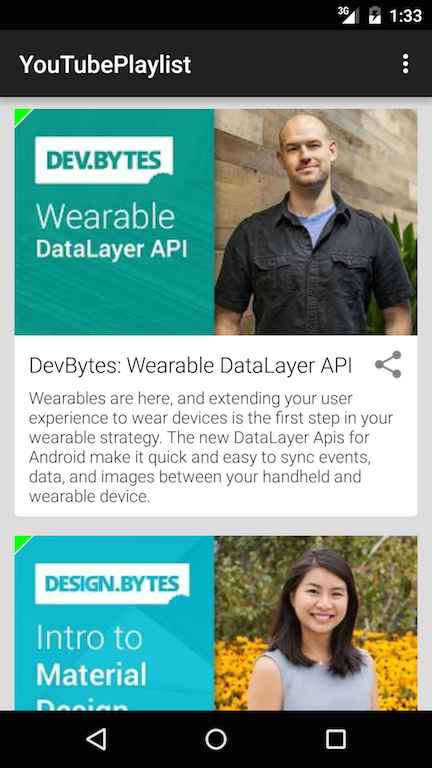
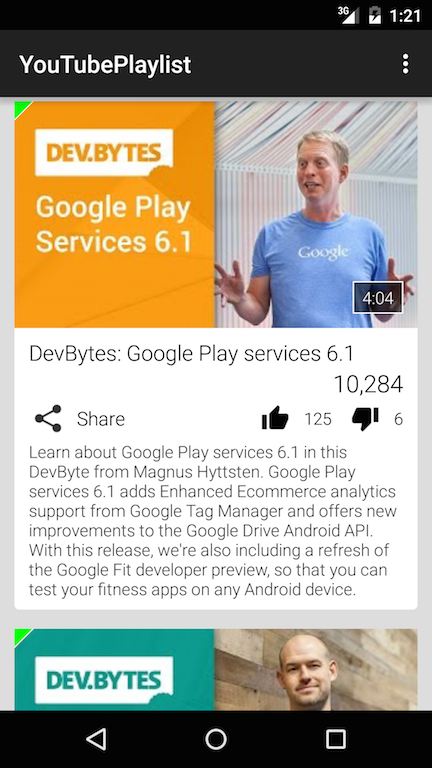
Video details (duration, view count, likes and dislikes)
- added a GetYouTubeVideoAsyncTask that fetches the video details
through the https://www.googleapis.com/youtube/v3/videos API.  See
https://developers.google.com/youtube/v3/docs/videos/list for details.
- added a Video data class that holds the video details.
- updated Playlist and PlayListItem to know about the Video class
- updated YouTubeFragmenthandlePlaylistResult(JSONObject) to kick off a
GetYouTubeVideoAsyncTask for each new Playlist page that has been
fetched.
- updated the youtube_video_list_item.xml to include new layout
elements for duration, view count, likes and dislikes.  Also changed
some font sizes and padding a bit
- updated the screenshot.png to show the new UI updates

diff --git a/YouTubePlaylist/src/main/java/com/akoscz/youtube/YouTubeFragment.java b/YouTubePlaylist/src/main/java/com/akoscz/youtube/YouTubeFragment.java
@@ -1,6 +1,5 @@
 package com.akoscz.youtube;
 
-import android.app.Activity;
 import android.content.Intent;
 import android.net.Uri;
 import android.os.Bundle;
@@ -16,10 +15,11 @@ import android.widget.TextView;
 import com.google.gson.Gson;
 import com.squareup.picasso.Picasso;
 
+import org.json.JSONArray;
 import org.json.JSONException;
 import org.json.JSONObject;
 
-import java.io.File;
+import java.text.DecimalFormat;
 
 /**
  * Licensed under the Apache License, Version 2.0 (the "License");
@@ -38,6 +38,7 @@ import java.io.File;
  * YouTubeFragment which contains a list view of YouTube video cards
  */
 public class YouTubeFragment extends Fragment {
+    private static final String TAG = "YouTubeFragment";
 
     private static final String YOUTUBE_PLAYLIST = "PLWz5rJ2EKKc_XOgcRukSoKKjewFJZrKV0";
     private static final String PLAYLIST_KEY = "PLAYLIST_KEY";
@@ -49,8 +50,7 @@ public class YouTubeFragment extends Fragment {
     }
 
     @Override
-    public View onCreateView(LayoutInflater inflater, ViewGroup container,
-                             Bundle savedInstanceState) {
+    public View onCreateView(LayoutInflater inflater, ViewGroup container, Bundle savedInstanceState) {
 
         Picasso.with(getActivity()).setIndicatorsEnabled(BuildConfig.DEBUG);
 
@@ -97,9 +97,35 @@ public class YouTubeFragment extends Fragment {
             if (mPlaylist == null) {
                 mPlaylist = new Playlist(result);
                 initListAdapter(mPlaylist);
-            } else {
-                mPlaylist.addPage(result);
             }
+
+            final Playlist.Page page = mPlaylist.addPage(result);
+
+            // fetch all the video details for the current page of Playlist Items
+            new GetYouTubeVideoAsyncTask() {
+
+                @Override
+                public void onPostExecute(JSONObject result) {
+                    if (result == null) {
+                        return;
+                    }
+
+                    try {
+                        JSONArray resultItems = result.getJSONArray("items");
+                        PlaylistItem playlistItem;
+                        for (int i = 0; i < page.items.size(); i++) {
+                            playlistItem = page.items.get(i);
+                            playlistItem.video = new Video(resultItems.getJSONObject(i));
+                        }
+
+                    } catch (JSONException e) {
+                        e.printStackTrace();
+                    }
+
+                    // make sure the UI gets updated
+                    mAdapter.notifyDataSetChanged();
+                }
+            }.execute(page);
 
             if (!mAdapter.setIsLoading(false)) {
                 mAdapter.notifyDataSetChanged();
@@ -110,6 +136,7 @@ public class YouTubeFragment extends Fragment {
     }
 
     protected class PlaylistAdapter extends BaseAdapter {
+        private final DecimalFormat formatter = new DecimalFormat("#,###,###");
         private final LayoutInflater mInflater;
         private Playlist mPlaylist;
         private boolean mIsLoading = false;
@@ -163,6 +190,11 @@ public class YouTubeFragment extends Fragment {
                 viewHolder.description = (TextView) convertView.findViewById(R.id.video_description);
                 viewHolder.thumbnail = (ImageView) convertView.findViewById(R.id.video_thumbnail);
                 viewHolder.share = (ImageView) convertView.findViewById(R.id.video_share);
+                viewHolder.shareText = (TextView) convertView.findViewById(R.id.video_share_text);
+                viewHolder.duration = (TextView) convertView.findViewById(R.id.video_dutation_text);
+                viewHolder.viewCount= (TextView) convertView.findViewById(R.id.video_view_count);
+                viewHolder.likeCount = (TextView) convertView.findViewById(R.id.video_like_count);
+                viewHolder.dislikeCount = (TextView) convertView.findViewById(R.id.video_dislike_count);
                 convertView.setTag(viewHolder);
             }
 
@@ -172,10 +204,12 @@ public class YouTubeFragment extends Fragment {
             viewHolder.title.setText(item.title);
             viewHolder.description.setText(item.description);
 
+            // load the video thumbnail image
             Picasso.with(getActivity())
                     .load(item.thumbnailUrl)
                     .into(viewHolder.thumbnail);
 
+            // set the click listener to play the video
             viewHolder.thumbnail.setOnClickListener(new View.OnClickListener() {
                 @Override
                 public void onClick(View view) {
@@ -184,7 +218,8 @@ public class YouTubeFragment extends Fragment {
                 }
             });
 
-            viewHolder.share.setOnClickListener(new View.OnClickListener() {
+            // create and set the click listener for both the share icon and share text
+            View.OnClickListener shareClickListener = new View.OnClickListener() {
                 @Override
                 public void onClick(View view) {
                     Intent sendIntent = new Intent();
@@ -194,7 +229,18 @@ public class YouTubeFragment extends Fragment {
                     sendIntent.setType("text/plain");
                     startActivity(sendIntent);
                 }
-            });
+            };
+            viewHolder.share.setOnClickListener(shareClickListener);
+            viewHolder.shareText.setOnClickListener(shareClickListener);
+
+            if (item.video != null) {
+                // set the video duration text
+                viewHolder.duration.setText(item.video.duration);
+                // set the video statistics
+                viewHolder.viewCount.setText(formatter.format(item.video.viewCount));
+                viewHolder.likeCount.setText(formatter.format(item.video.likeCount));
+                viewHolder.dislikeCount.setText(formatter.format(item.video.dislikeCount));
+            }
 
             // get the next playlist page if we're at the end of the current page and we have another page to get
             final String nextPageToken = mPlaylist.getNextPageToken(position);
@@ -224,6 +270,11 @@ public class YouTubeFragment extends Fragment {
             TextView title;
             TextView description;
             ImageView share;
+            TextView shareText;
+            TextView duration;
+            TextView viewCount;
+            TextView likeCount;
+            TextView dislikeCount;
         }
     }
 }

diff --git a/YouTubePlaylist/src/main/java/com/akoscz/youtube/GetYouTubeVideoAsyncTask.java b/YouTubePlaylist/src/main/java/com/akoscz/youtube/GetYouTubeVideoAsyncTask.java
@@ -26,43 +26,35 @@ import java.io.IOException;
  * See the License for the specific language governing permissions and
  * limitations under the License.
  */
-public abstract class GetYouTubePlaylistAsyncTask extends AsyncTask<String, Void, JSONObject> {
-    private static final String TAG = "GetYouTubePlaylistAsyncTask";
+public abstract class GetYouTubeVideoAsyncTask extends AsyncTask<Playlist.Page, Void, JSONObject> {
+    private static final String TAG = "GetYouTubeVideoDurationAsyncTask";
 
-    private static final int YOUTUBE_PLAYLIST_MAX_RESULTS = 10;
-
-    //see: https://developers.google.com/youtube/v3/docs/playlistItems/list
-    private static final String YOUTUBE_PLAYLISTITEMS_URL = "https://www.googleapis.com/youtube/v3/playlistItems";
-    private static final String YOUTUBE_PLAYLIST_PART = "snippet";
-    private static final String YOUTUBE_PLAYLIST_FIELDS = "etag,pageInfo,nextPageToken,items(id,snippet(title,description,position,thumbnails(medium,high),resourceId/videoId))";
+    //see: https://developers.google.com/youtube/v3/docs/videos/list
+    private static final String YOUTUBE_VIDEOS_URL = "https://www.googleapis.com/youtube/v3/videos";
+    private static final String YOUTUBE_VIDEOS_PART = "contentDetails,statistics"; // video resource properties that the response will include.
+    private static final String YOUTUBE_VIDEOS_FIELDS = "items(contentDetails/duration,id,statistics)"; // selector specifying which fields to include in a partial response.
 
     private static OkHttpClient client = new OkHttpClient();
 
     private final Uri.Builder mUriBuilder;
+    private Playlist.Page page;
 
-    public GetYouTubePlaylistAsyncTask() {
-        mUriBuilder = Uri.parse(YOUTUBE_PLAYLISTITEMS_URL).buildUpon();
+    public GetYouTubeVideoAsyncTask() {
+        mUriBuilder = Uri.parse(YOUTUBE_VIDEOS_URL).buildUpon();
     }
 
     @Override
-    protected JSONObject doInBackground(String... params) {
-        final String playlistId = params[0];
-        if (playlistId == null || playlistId.length() == 0) {
+    protected JSONObject doInBackground(Playlist.Page... params) {
+        page = params[0];
+        if (page == null) {
             return null;
         }
 
-        if (params.length == 2) {
-            final String nextPageToken = params[1];
-            if (nextPageToken != null) {
-                mUriBuilder.appendQueryParameter("pageToken", nextPageToken);
-            }
-        }
-
-        mUriBuilder.appendQueryParameter("playlistId", playlistId)
-                .appendQueryParameter("part", YOUTUBE_PLAYLIST_PART)
-                .appendQueryParameter("maxResults", Integer.toString(YOUTUBE_PLAYLIST_MAX_RESULTS))
-                .appendQueryParameter("fields", YOUTUBE_PLAYLIST_FIELDS)
-                .appendQueryParameter("key", ApiKey.YOUTUBE_API_KEY);
+        Uri uri = mUriBuilder.appendQueryParameter("id", page.getVideoIds())
+                .appendQueryParameter("part", YOUTUBE_VIDEOS_PART)
+                .appendQueryParameter("fields", YOUTUBE_VIDEOS_FIELDS)
+                .appendQueryParameter("key", ApiKey.YOUTUBE_API_KEY)
+                .build();
 
         final String url = mUriBuilder.build().toString();
         //Log.d(TAG, url);

diff --git a/YouTubePlaylist/src/main/java/com/akoscz/youtube/Video.java b/YouTubePlaylist/src/main/java/com/akoscz/youtube/Video.java
@@ -1,0 +1,79 @@
+package com.akoscz.youtube;
+
+import org.json.JSONException;
+import org.json.JSONObject;
+
+/**
+ * Licensed under the Apache License, Version 2.0 (the "License");
+ * you may not use this file except in compliance with the License.
+ * You may obtain a copy of the License at
+ * <p/>
+ * http://www.apache.org/licenses/LICENSE-2.0
+ * <p/>
+ * Unless required by applicable law or agreed to in writing, software
+ * distributed under the License is distributed on an "AS IS" BASIS,
+ * WITHOUT WARRANTIES OR CONDITIONS OF ANY KIND, either express or implied.
+ * See the License for the specific language governing permissions and
+ * limitations under the License.
+ */
+public class Video {
+    public final String duration;
+    public final long viewCount;
+    public final long likeCount;
+    public final long dislikeCount;
+    public final long favoriteCount;
+    public final long commentCount;
+
+    public Video(JSONObject json) throws JSONException {
+        JSONObject contentDetails = json.getJSONObject("contentDetails");
+        final String rawDuration = contentDetails.getString("duration");
+        duration = parseDuration(rawDuration);
+
+        JSONObject statistics = json.optJSONObject("statistics");
+        if (statistics == null) {
+            viewCount = 0;
+            likeCount = 0;
+            favoriteCount = 0;
+            dislikeCount = 0;
+            commentCount = 0;
+        } else {
+            viewCount = statistics.optLong("viewCount", 0);
+            likeCount = statistics.optLong("likeCount", 0);
+            dislikeCount = statistics.optLong("dislikeCount", 0);
+            favoriteCount = statistics.optLong("favoriteCount", 0);
+            commentCount = statistics.optLong("commentCount", 0);
+        }
+    }
+
+    private String parseDuration(String in) {
+        boolean hasSeconds = in.indexOf('S') > 0;
+        boolean hasMinutes = in.indexOf('M') > 0;
+
+        String s;
+        if (hasSeconds) {
+            s = in.substring(2, in.length() - 1);
+        } else {
+            s = in.substring(2, in.length());
+        }
+
+        String minutes = "0";
+        String seconds = "00";
+
+        if (hasMinutes && hasSeconds) {
+            String[] split = s.split("M");
+            minutes = split[0];
+            seconds = split[1];
+        } else if (hasMinutes) {
+            minutes = s.substring(0, s.indexOf('M'));
+        } else if (hasSeconds) {
+            seconds = s;
+        }
+
+        // pad seconds with a 0 if less than 2 digits
+        if (seconds.length() == 1) {
+            seconds = "0" + seconds;
+        }
+
+        return minutes + ":" + seconds;
+    }
+}

diff --git a/YouTubePlaylist/src/main/java/com/akoscz/youtube/Playlist.java b/YouTubePlaylist/src/main/java/com/akoscz/youtube/Playlist.java
@@ -25,7 +25,7 @@ public class Playlist {
     public final int totalResults;
     public final int resultsPerPage;
 
-    public List<Page> pages;
+    public List<Playlist.Page> pages;
 
     public Playlist(JSONObject jsonPlaylist) throws JSONException {
         pages = new ArrayList<Page>();
@@ -33,8 +33,6 @@ public class Playlist {
         JSONObject pageInfo = jsonPlaylist.getJSONObject("pageInfo");
         totalResults = pageInfo.getInt("totalResults");
         resultsPerPage = pageInfo.getInt("resultsPerPage");
-
-        addPage(jsonPlaylist);
     }
 
     public int getCount() {
@@ -46,11 +44,15 @@ public class Playlist {
         return count;
     }
 
-    public void addPage(JSONObject jsonPlaylist) throws JSONException {
-        pages.add(new Page(
+    public Page addPage(JSONObject jsonPlaylist) throws JSONException {
+        final Page page = new Page(
                 jsonPlaylist.getJSONArray("items"),
                 jsonPlaylist.getString("etag"),
-                jsonPlaylist.optString("nextPageToken", null)));
+                jsonPlaylist.optString("nextPageToken", null));
+
+        pages.add(page);
+
+        return page;
     }
 
     public PlaylistItem getItem(int position) {
@@ -78,6 +80,7 @@ public class Playlist {
         public final String nextPageToken;
         public final List<PlaylistItem> items;
         public final String eTag;
+        public boolean haveVideoDetails;
 
         Page(JSONArray jsonItems, String etag, String nextPageToken) throws JSONException {
             eTag = etag;
@@ -88,6 +91,17 @@ public class Playlist {
                 JSONObject item = jsonItems.getJSONObject(i);
                 items.add(new PlaylistItem(item));
             }
+        }
+
+        public String getVideoIds() {
+            StringBuffer buffer = new StringBuffer();
+            for (PlaylistItem item : items) {
+                buffer.append(item.videoId);
+                buffer.append(',');
+            }
+            buffer.deleteCharAt(buffer.lastIndexOf(","));
+
+            return buffer.toString();
         }
     }
 }

diff --git a/YouTubePlaylist/src/main/java/com/akoscz/youtube/PlaylistItem.java b/YouTubePlaylist/src/main/java/com/akoscz/youtube/PlaylistItem.java
@@ -23,6 +23,7 @@ public class PlaylistItem {
     public final String thumbnailUrl;
     public final String videoId;
     public final int position;
+    public Video video;
 
     public PlaylistItem(JSONObject jsonItem) throws JSONException {
         id = jsonItem.getString("id");
